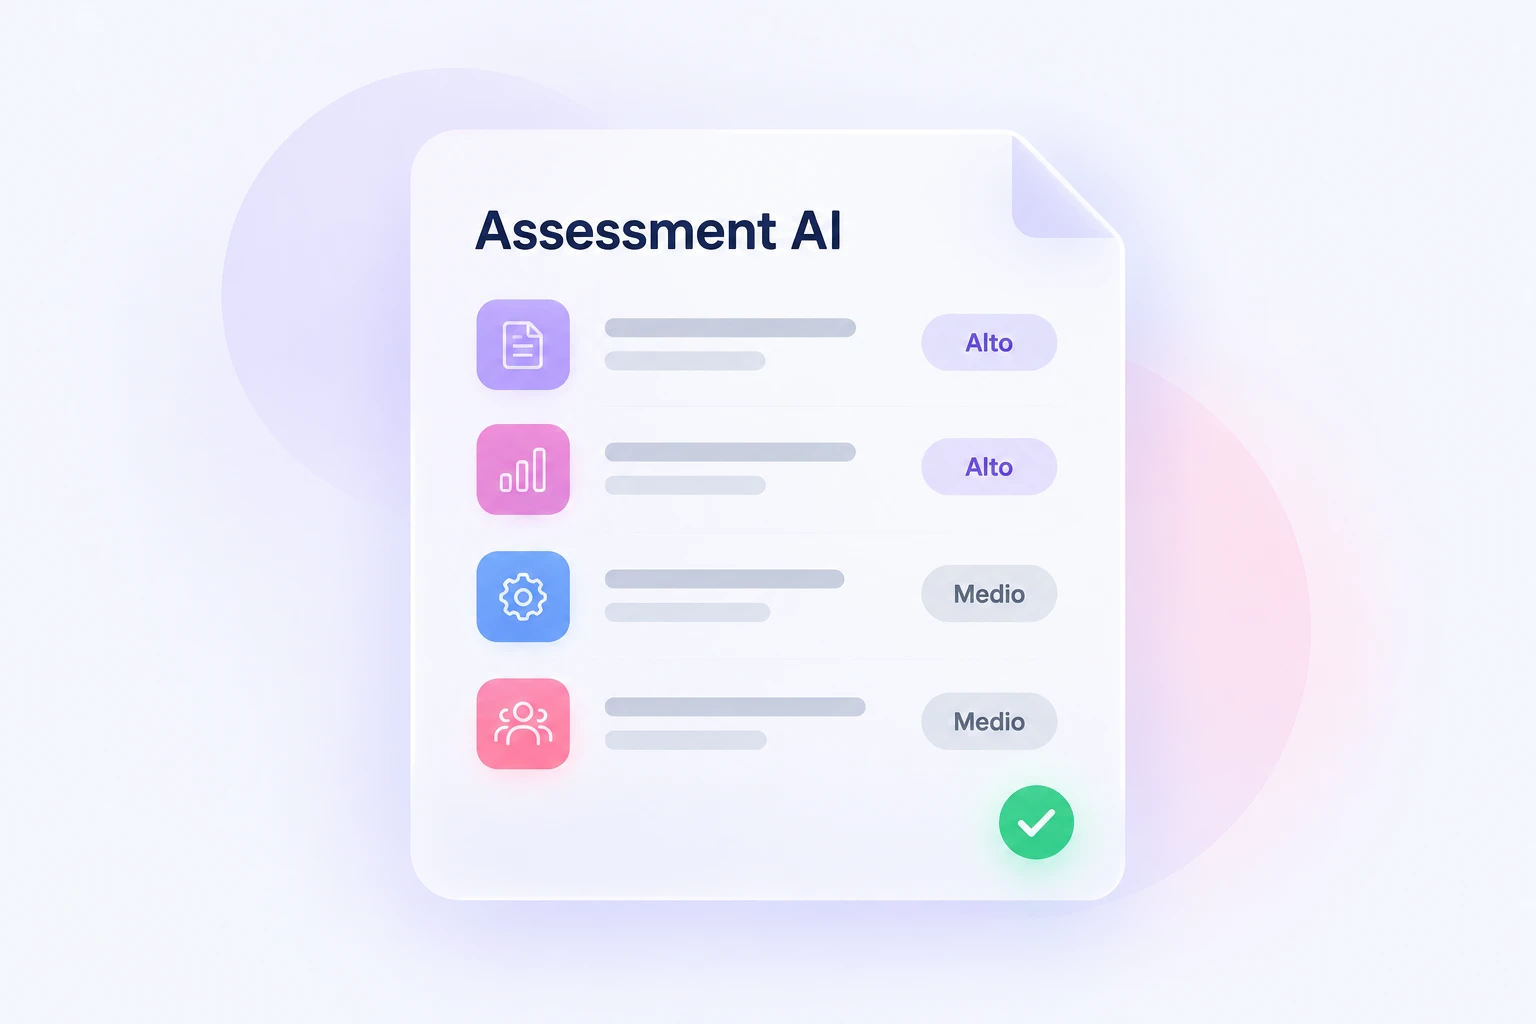
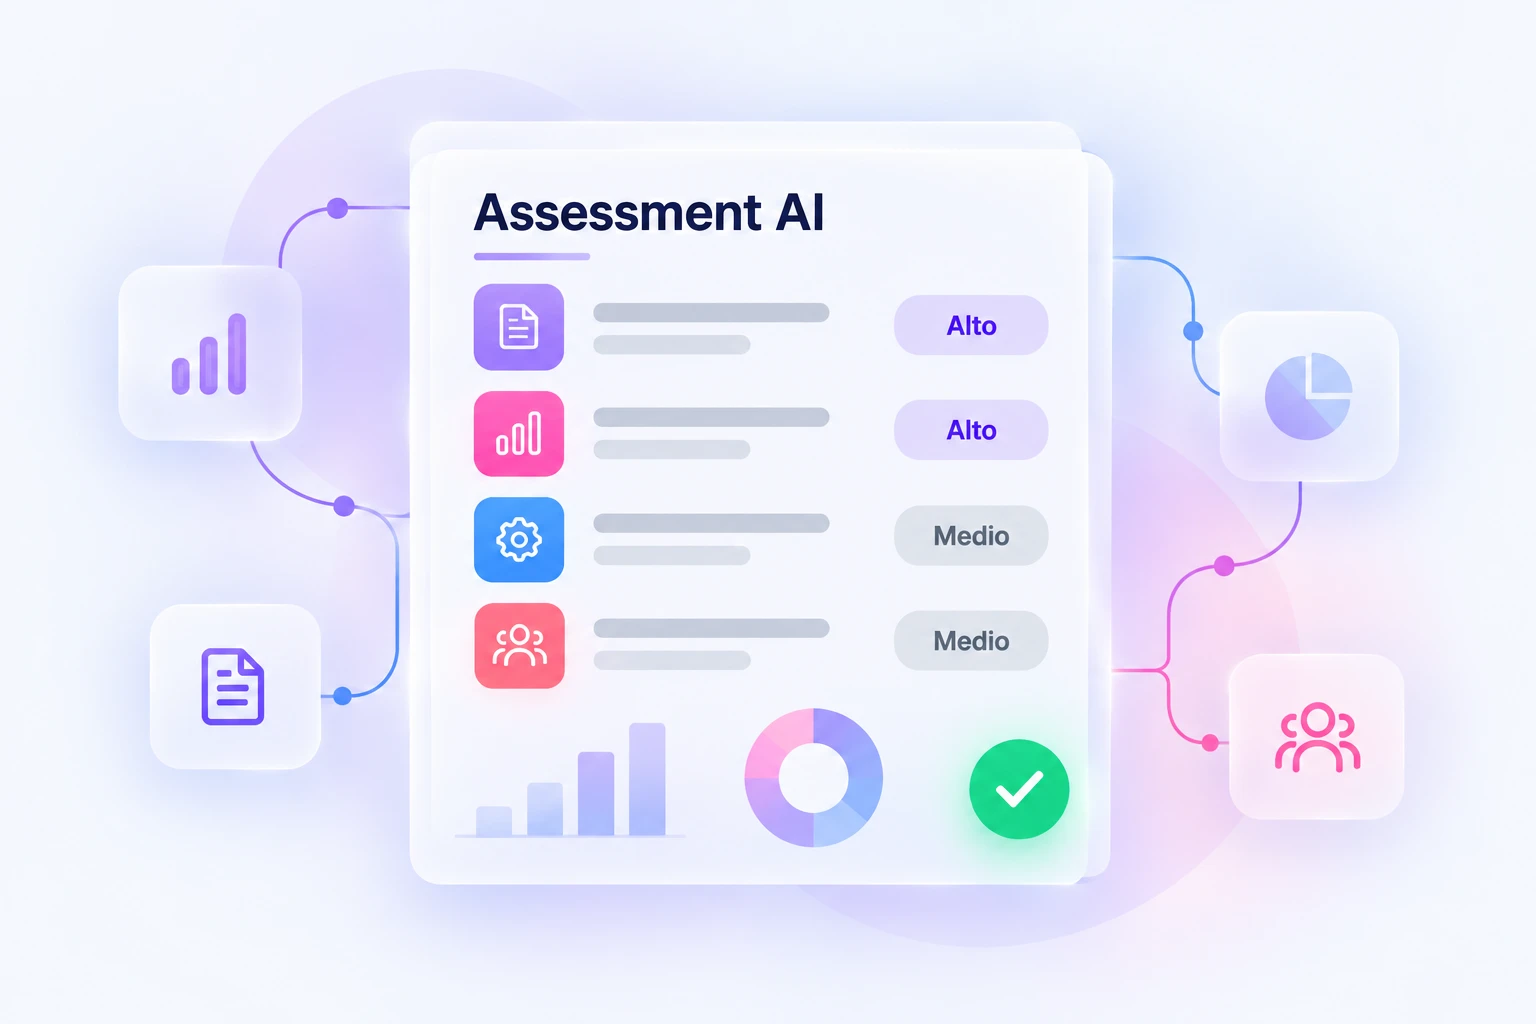
feat(home): nuova versione dell'infografica dell'assessment

diff --git a/src/components/v3/infographic.tsx b/src/components/v3/infographic.tsx
@@ -34,7 +34,7 @@ const READY: Record<number, { file: string; alt: string }> = {
   },
   8: {
     file: "infografica-08.webp",
-    alt: "Il documento dell'assessment AI: quattro casi d'uso ordinati per impatto, alto e medio, con il sigillo di verifica",
+    alt: "Il documento dell'assessment AI: casi d'uso ordinati per impatto, alto e medio, collegati a dati, documenti e persone dell'azienda",
   },
   9: {
     file: "infografica-09.webp",
